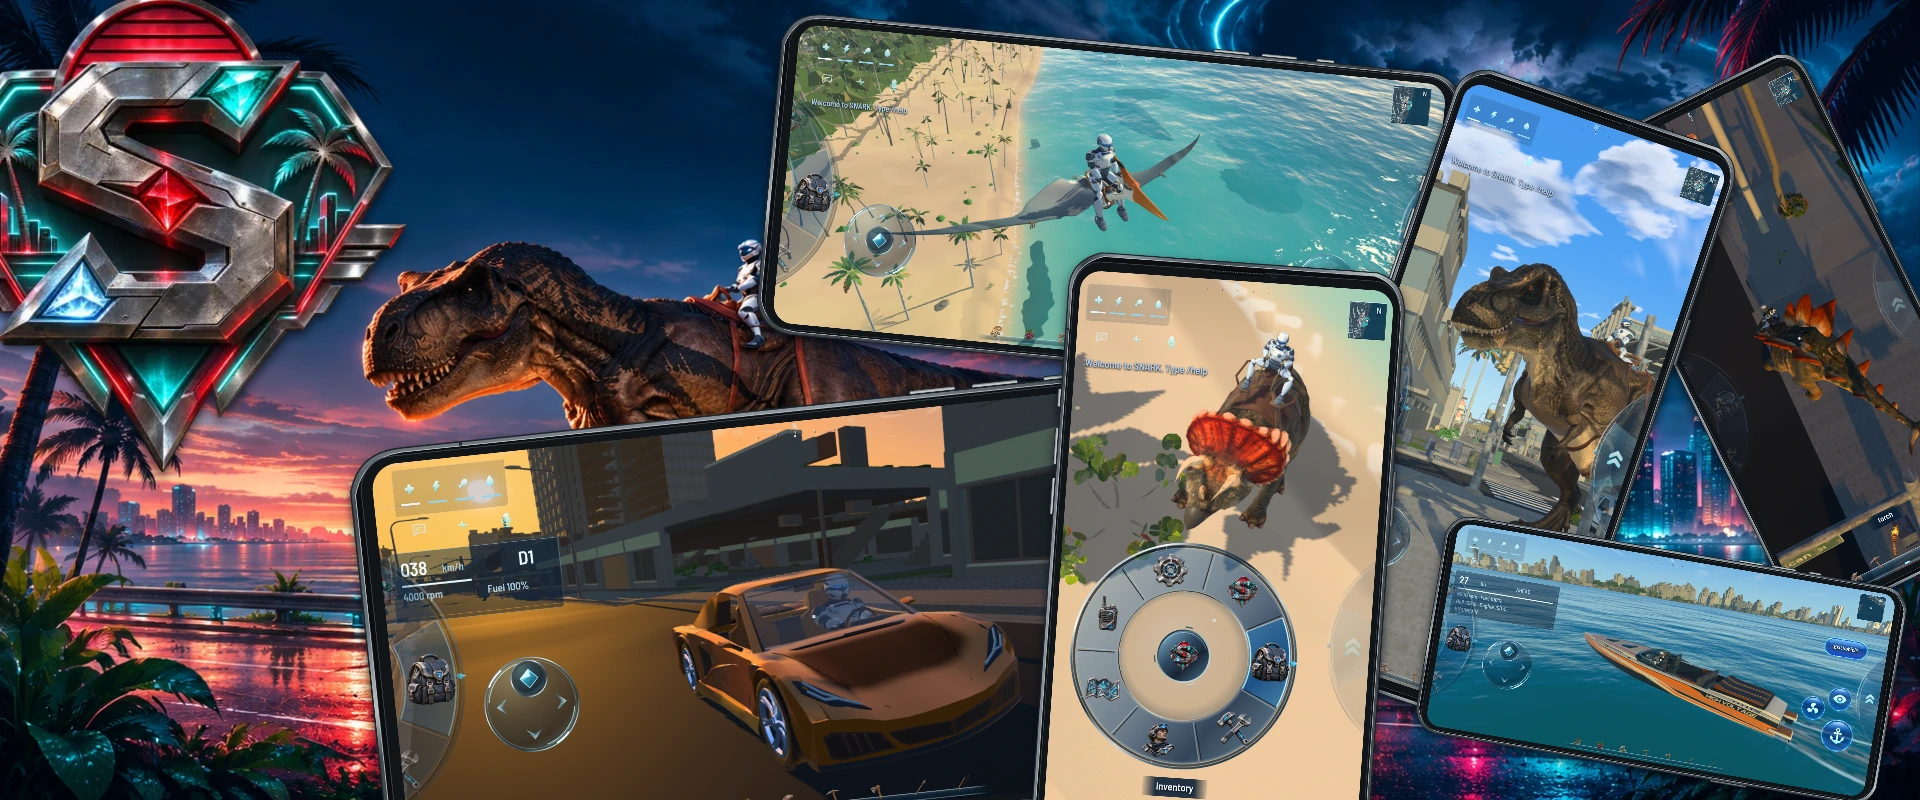
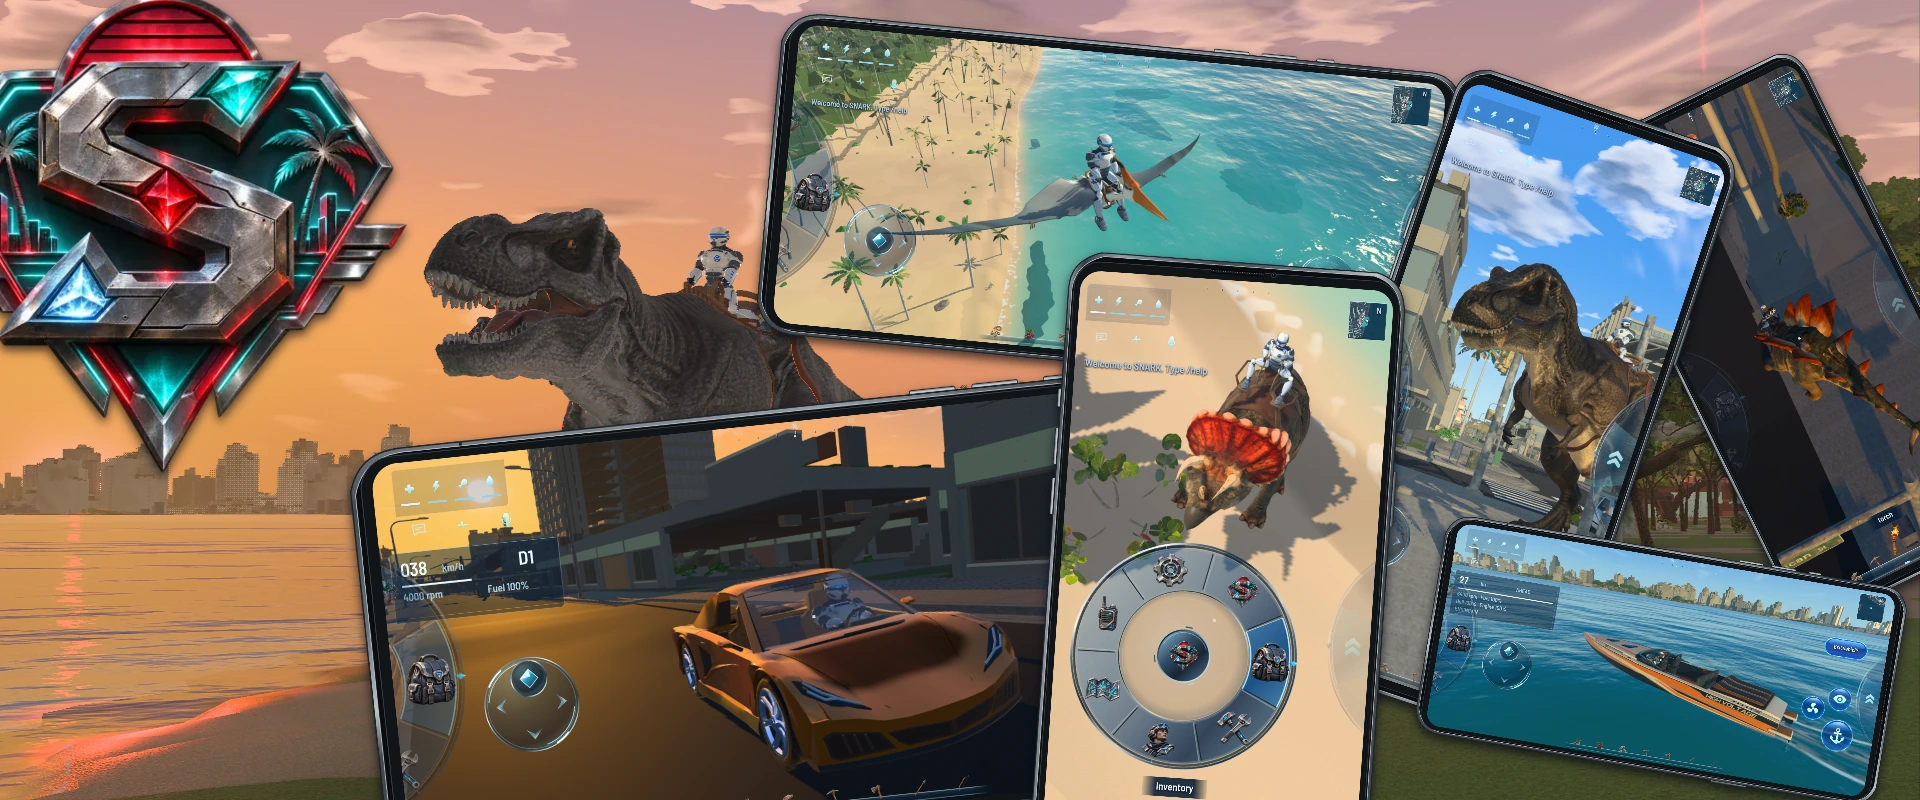
Use native Miami renders for the mobile and map prints

diff --git a/README.md b/README.md
@@ -15,7 +15,7 @@ ARK-style dinosaur survival and GTA-style vehicles in a persistent multiplayer b
 
 [Map pipeline](tools/maps/README.md) · [Art & downloads](distribution/README.md) · [Agent setup](agent/README.md#run-it) · [Benchmarks](planning/quality/performance.md) · [Code license](LICENSE)
 
-[![Six mobile gameplay screens surrounding the SNARK emblem on the Miami waterfront](docs/media/mobile.webp)](docs/media/mobile.webp)
+[![Six mobile gameplay screens frame the SNARK emblem and a Meridian-armored rider on a roaring Rex at sunset](docs/media/mobile.webp)](docs/media/mobile.webp)
 
 [![The wiki’s Rex dossier, item index and home page with three mounted flyers at daybreak](docs/media/wiki.webp)](docs/media/wiki.webp)
 
@@ -31,4 +31,4 @@ https://github.com/user-attachments/assets/dd66a6e2-3d90-46d9-89e4-ec1469549d84
 
 [![Two survivors in Meridian armor flee a Rex beneath the blue rings of the Tide Eye on Virginia Key](docs/media/tide-chase.webp)](docs/media/tide-chase.webp)
 
-[![One SNARK city compared with Miami, GTA V, GTA VI and The Island at the same scale](docs/media/map-size.webp)](docs/media/map-size.webp)
+[![A mounted Pteranodon crosses Biscayne Bay at sunset beside a map of SNARK’s 266.3 km² Miami, with four smaller areas drawn at the same scale](docs/media/map-size.webp)](docs/media/map-size.webp)
